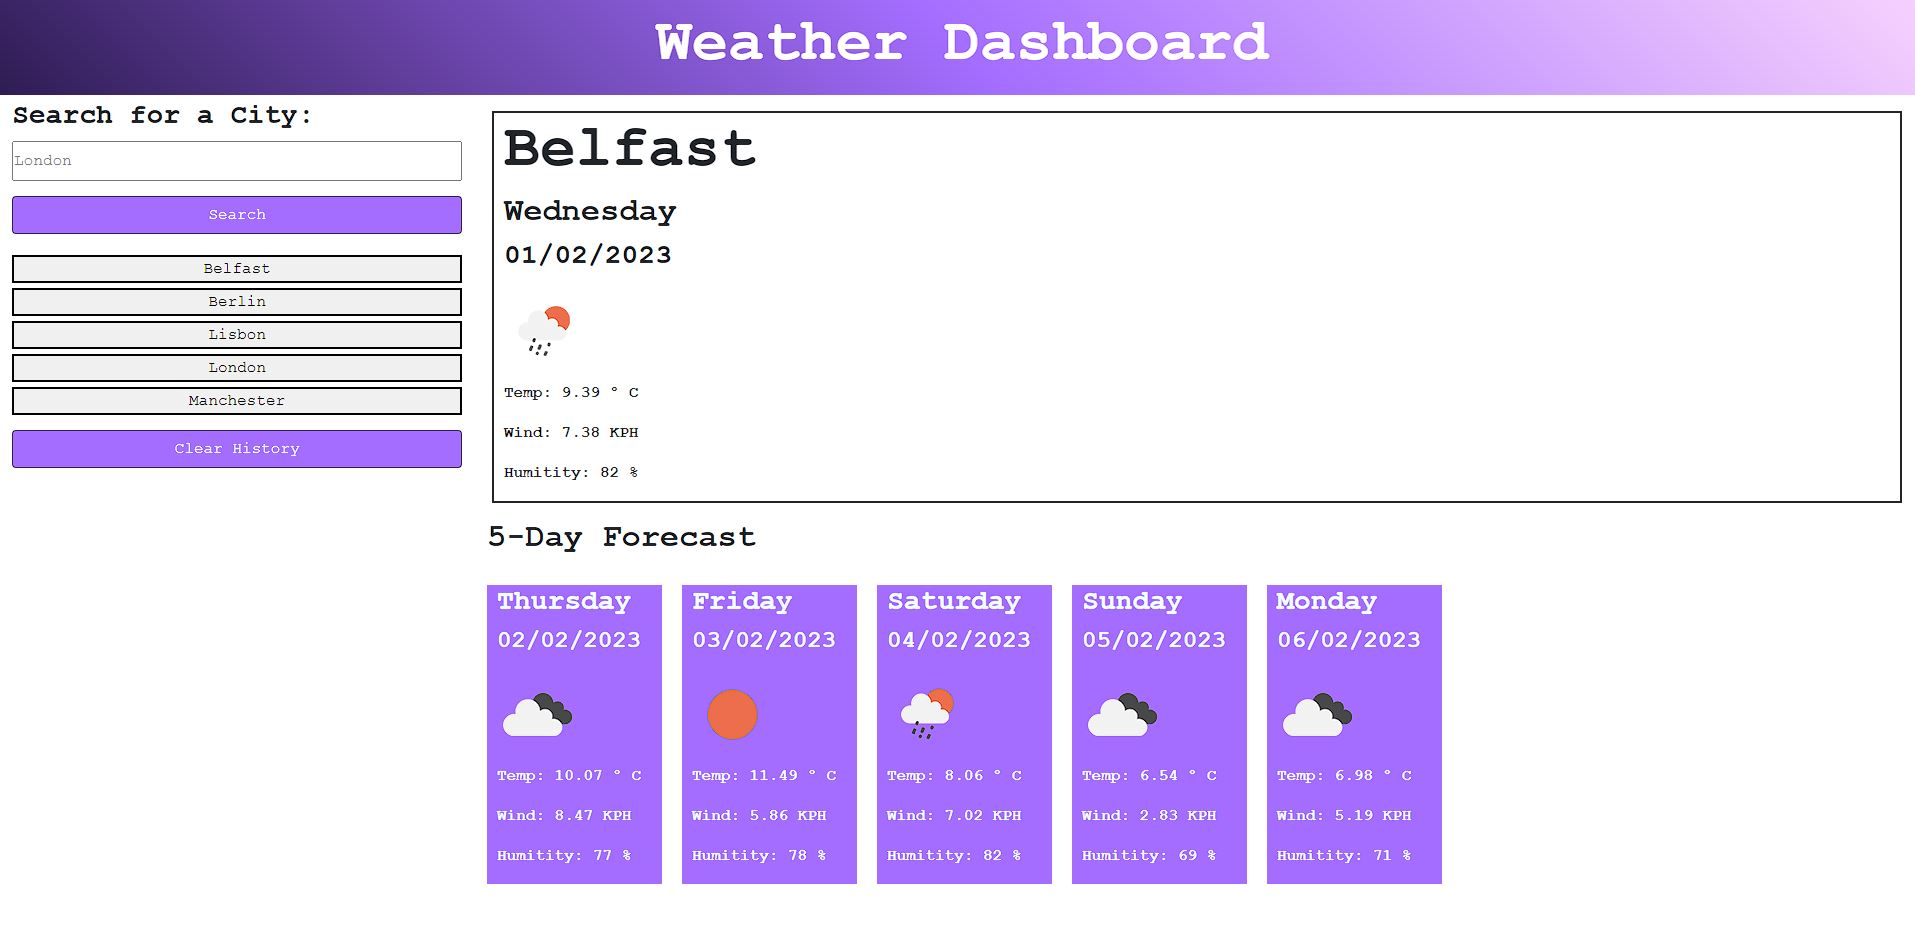
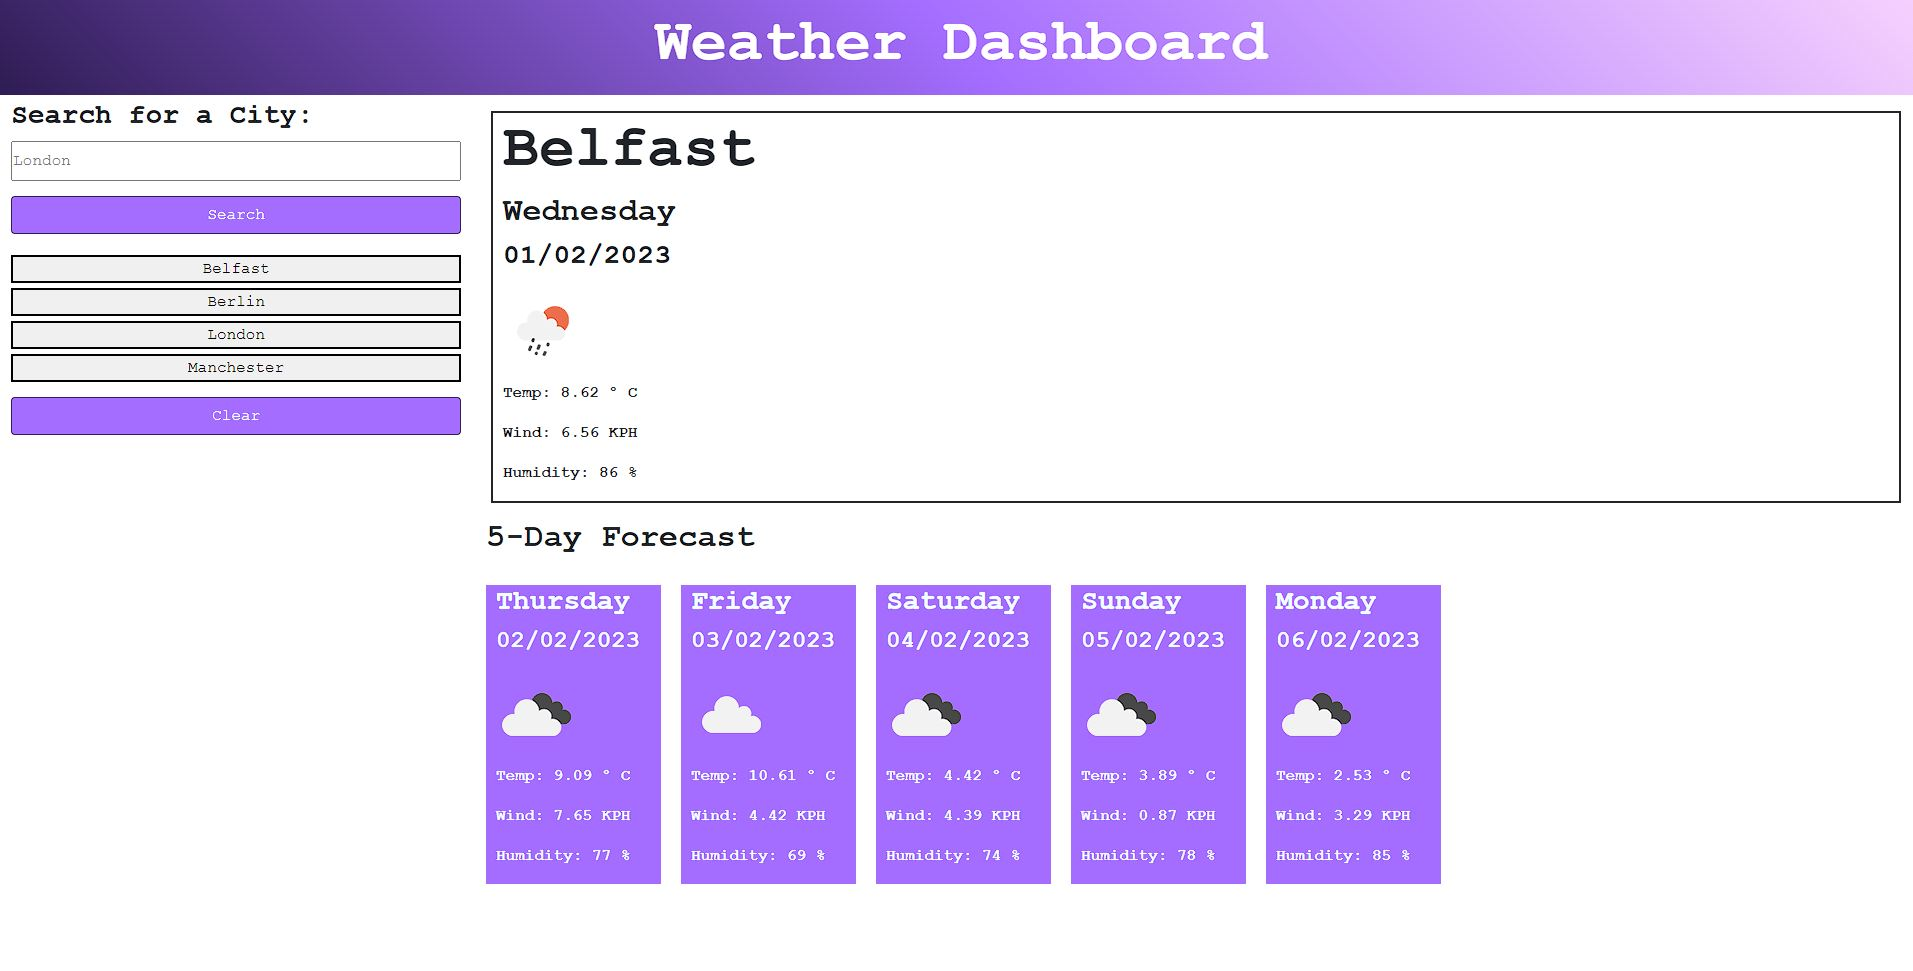
new readme img to reflect typo correction

Changed region(s): [[0.0, 0.0933, 1.0, 0.9646], [0.3393, 0.0311, 0.6785, 0.0622], [0.2776, 0.3112, 0.3084, 0.3734]]

diff --git a/index.html b/index.html
@@ -34,7 +34,7 @@
         </form>
         <div class="list-group" id="history"></div>
         <div>
-          <button class="btn searchClearBtns" id="clear-button">Clear History</button>
+          <button class="btn searchClearBtns" id="clear-button">Clear</button>
         </div>
       </aside>
       <div class="col-lg-9 pb-3">
